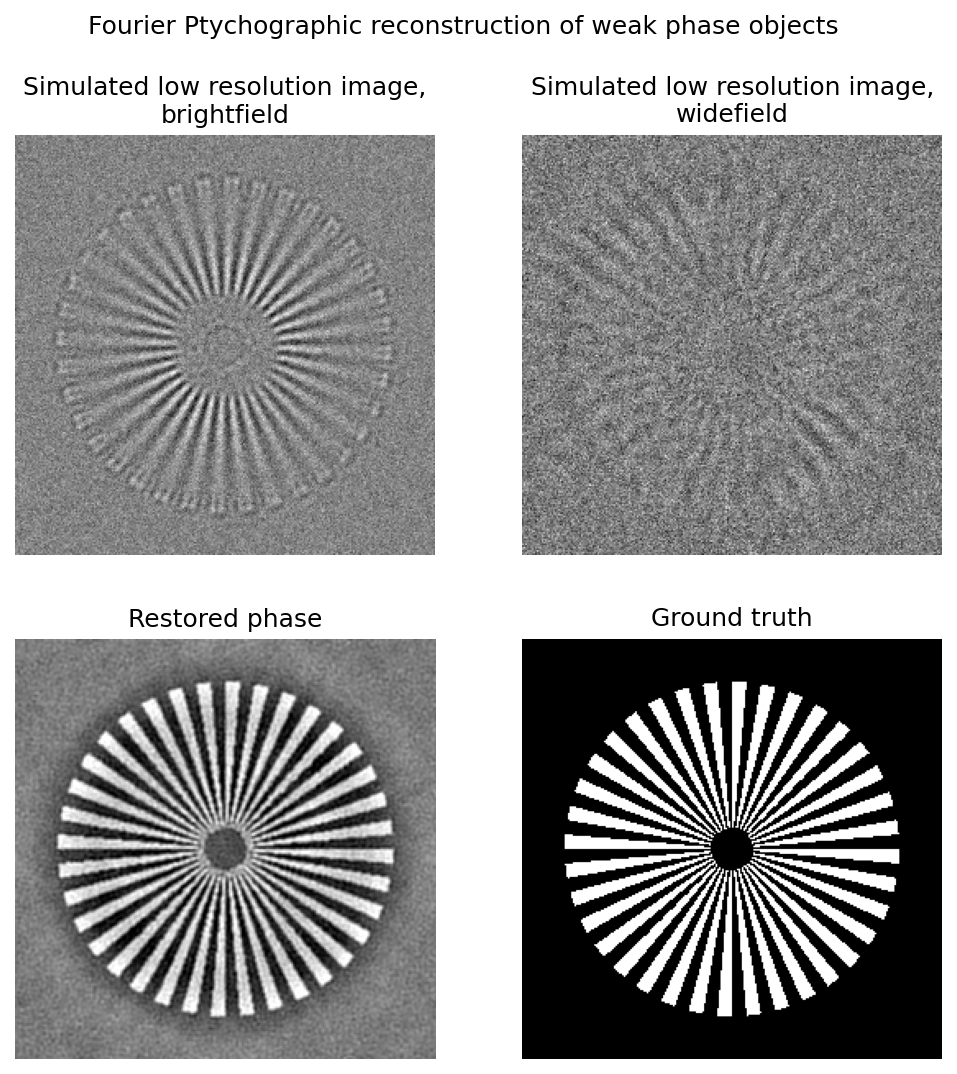
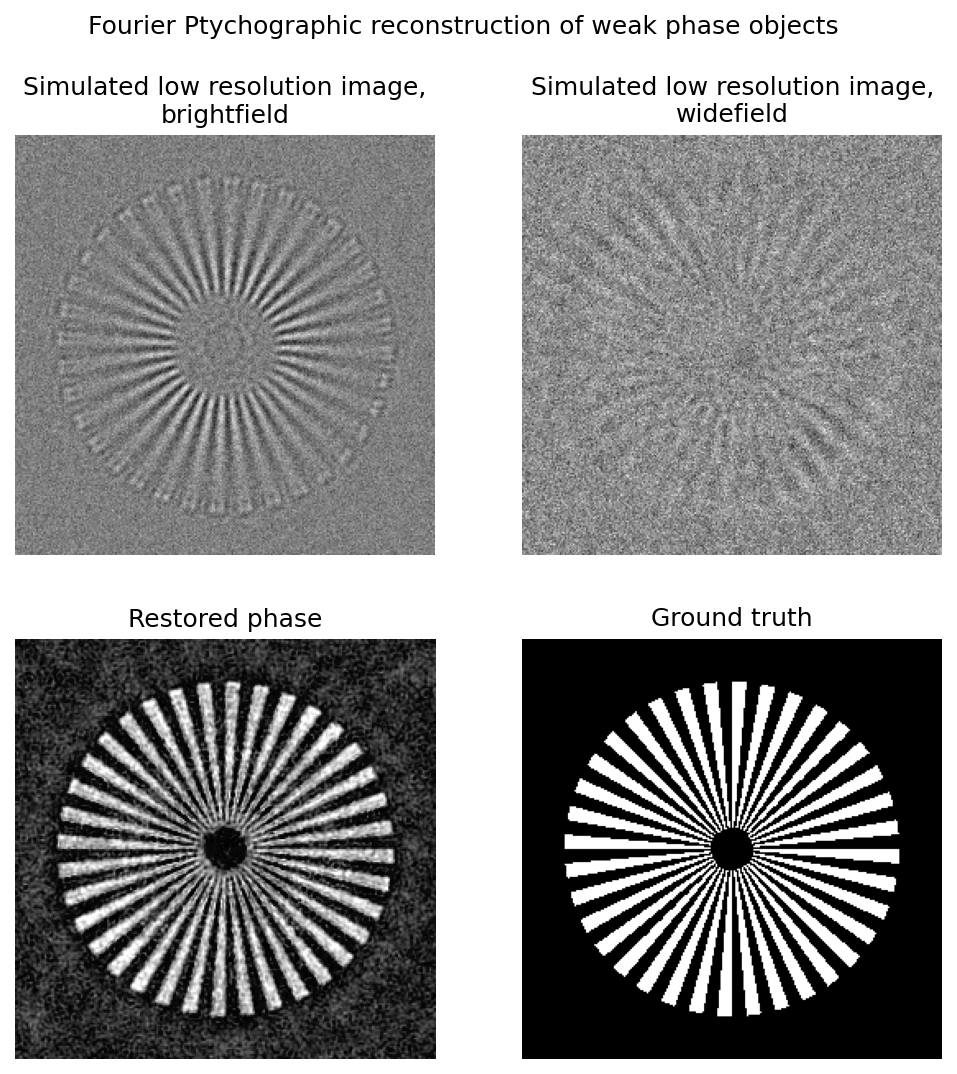
Improve FPM problem formulations

Changed region(s): [[0.0, 0.5838, 0.4545, 1.0], [0.5455, 0.1229, 1.0, 0.5223], [0.0303, 0.1229, 0.4545, 0.5223]]

diff --git a/searchindex.js b/searchindex.js
@@ -1,1 +1,1 @@
-Search.setIndex({"alltitles":{"Advanced examples":[[4,"advanced-examples"]],"Basic examples":[[4,"basic-examples"]],"Comparison with the previous architecture":[[10,"comparison-with-the-previous-architecture"]],"Dependencies":[[12,"dependencies"]],"Examples":[[4,null]],"Experimental ProxImaL intermediate representation":[[10,null]],"Horn-Schunck optical flow algorithm":[[4,"horn-schunck-optical-flow-algorithm"],[6,null]],"Image deconvolution with spatial varying point spread functions (SV-PSFs)":[[2,null],[4,"image-deconvolution-with-spatial-varying-point-spread-functions-sv-psfs"]],"Install Guide":[[12,null]],"Install from source":[[12,"install-from-source"]],"Joint image super-resolution and phase retrieval with Fourier Ptychographic microscopy (FPM)":[[3,null],[4,"joint-image-super-resolution-and-phase-retrieval-with-fourier-ptychographic-microscopy-fpm"]],"Linear Operators":[[14,"linear-operators"]],"Overview":[[0,"overview"]],"Pixel super-resolution of oil emulsion droplets under high-speed camera":[[4,"pixel-super-resolution-of-oil-emulsion-droplets-under-high-speed-camera"],[7,null]],"Planned development roadmap":[[10,"planned-development-roadmap"]],"ProxImaL-to-Halide code generation templates":[[0,null]],"Proxable Functions":[[14,"proxable-functions"]],"Publications":[[13,null]],"Pulse calling of single-molecule events":[[4,"pulse-calling-of-single-molecule-events"],[5,null]],"Quick start":[[10,"quick-start"]],"Rationale":[[10,"rationale"]],"Real-world applications":[[4,"real-world-applications"]],"Solver Algorithms":[[14,"solver-algorithms"]],"TV-regularized image deconvolution":[[1,null],[4,"tv-regularized-image-deconvolution"]],"Total variation denoising":[[4,"total-variation-denoising"],[9,null]],"Total variation denoising with multiplicative Poisson noise":[[4,"total-variation-denoising-with-multiplicative-poisson-noise"],[8,null]],"Tutorial":[[14,null]],"Unit testing":[[12,"unit-testing"]],"Visualization of the ProxImal-IR":[[10,"visualization-of-the-proximal-ir"]],"Welcome to ProxImaL":[[11,null]],"Working principle":[[0,"working-principle"]]},"docnames":["codegen","examples/deconv","examples/deconv-sv-psf","examples/fourier-ptychography","examples/index","examples/molecular-pulse-calling","examples/optical-flow","examples/pixel-sr","examples/poisson","examples/tv_denoise","experimental_features","index","install","publications","tutorial/index"],"envversion":{"sphinx":65,"sphinx.domains.c":3,"sphinx.domains.changeset":1,"sphinx.domains.citation":1,"sphinx.domains.cpp":9,"sphinx.domains.index":1,"sphinx.domains.javascript":3,"sphinx.domains.math":2,"sphinx.domains.python":4,"sphinx.domains.rst":2,"sphinx.domains.std":2,"sphinx.ext.viewcode":1},"filenames":["codegen.rst","examples/deconv.rst","examples/deconv-sv-psf.rst","examples/fourier-ptychography.rst","examples/index.rst","examples/molecular-pulse-calling.rst","examples/optical-flow.rst","examples/pixel-sr.rst","examples/poisson.rst","examples/tv_denoise.rst","experimental_features.rst","index.rst","install.rst","publications.rst","tutorial/index.rst"],"indexentries":{},"objects":{},"objnames":{},"objtypes":{},"terms":{"":[3,4,7,11,12,13],"0":[2,3,4,5,7,9,12],"000":[4,5],"005":[4,7],"015":[2,4],"019":[3,4],"02":12,"023035":[3,4],"07":[3,4],"0817":[2,4],"0e":10,"1":[2,3,4,7,9,10,11,12,14],"10":[0,2,3,4,5,7,11],"100":12,"1000":[4,7],"1007":[2,4],"1038":[3,4,7],"1088":[3,4],"11":10,"1109":[4,7],"11114":[3,4],"1126":[4,5],"1142":0,"115":[2,4],"12":0,"128":[4,5],"13":[4,7],"131":11,"132":11,"133":11,"1364":[3,4],"1367":[3,4],"137":12,"14":12,"15":[11,12],"16":[4,5],"17":[0,12],"18":12,"186":[4,5],"192":[4,5],"1e3":[3,4],"2":[1,2,3,4,5,6,7,8,9],"20":[4,5],"2003":0,"2015":[2,4],"2016":13,"2017":[4,7],"2019":[3,4,7],"2020":[3,4],"2022":[4,5],"2023":[4,5],"22":[3,4],"231":0,"253":[2,4],"255":[4,5,9,11],"26":12,"260":0,"2630":[3,4],"278":[2,4],"2914946":[4,7],"2d":[0,14],"3":[0,4,7,10,12],"30":[4,5],"378":[4,5],"39":12,"3d":0,"3x3":14,"4":[4,5,7],"40":12,"43":12,"44608":[4,7],"47146":[3,4],"5":[4,7,10],"52":12,"5e":[4,7],"61":12,"64":0,"6789017":[4,5],"7":[4,7],"72":12,"78":12,"781":[4,7],"792":[4,7],"8":11,"800":[4,7],"9":[3,4,12],"93":12,"96":[3,4],"A":[0,3,4,7,14],"For":11,"In":14,"It":[0,10,11],"On":0,"The":[0,4,5,7,10,11,13,14],"These":4,"To":[10,12],"Will":10,"_":[4,7,8],"_1":[1,4,5,8,9],"_2":[1,4,5,6,9],"a8d14f22c9ce1cc59c9f480df5deb0f7e94861f4":[4,7],"aarch64":0,"ab704":[3,4],"abo7651":[4,5],"about":11,"abov":11,"absorb":10,"absorpt":10,"absort":0,"academ":10,"academictorr":[3,4,7],"acceler":[0,12],"accompani":11,"acm":13,"across":[10,14],"action":12,"activ":12,"actor":0,"adapt":0,"add":10,"addition":12,"address":10,"admin":12,"admm":[0,14],"adopt":10,"advanc":10,"after":[0,10,12],"again":0,"aid":10,"aim":4,"aka":[4,7],"al":[2,4,5],"albeit":10,"algorithm":[0,7,10,13],"all":[4,7,10,14],"allow":[10,11],"along":14,"alpha":[2,4,6],"altern":[3,4,14],"amd":0,"an":[4,5,11],"api":10,"appli":[3,4,10],"applic":0,"approach":[4,5,7],"approxim":[2,4],"ar":[0,10,14],"architectur":[0,4,5,7],"arg":[3,4,14],"arg1":14,"arg2":14,"argument":14,"arithmet":[4,5,7],"arm":0,"arrai":14,"art":[11,13],"articl":[4,7],"artifact":[4,5,7],"ascent":11,"aug":[4,7],"autom":12,"automat":[10,11],"avail":[10,14],"axi":14,"b":[1,2,4,5,7,8,9,10,11,14],"b_j":[3,4],"backend":[0,10],"background":[4,7],"baremet":[4,7,10],"base":[4,5,7,10,14],"basic_denois":[4,9],"batch":[4,5,7],"bayer":[0,4],"becom":10,"befor":10,"behavior":10,"behind":13,"below":14,"benchmark":10,"better":[4,5,7,11],"between":10,"bin":12,"biolog":4,"biom":[4,7],"black":10,"blob":[1,2,3,4,5,6,7,8,9],"blockwis":14,"blur":[2,4],"bogaraju":[4,7],"bottom":0,"bound":14,"boundari":[4,5,7],"box":[10,14],"brian":[4,5],"build":[0,10],"built":10,"c":[0,3,4,7,14],"c95c06e98a74a580ccbcceafdc1188ea144021c8":[3,4],"calibr":[3,4],"camera":3,"can":[0,10,11,13],"canon":10,"captur":[4,7],"carefulli":10,"case":12,"cast":14,"cd":12,"cell":4,"central":10,"chambol":[0,14],"chan":[3,4,7],"chang":10,"channel":[4,7,10],"choos":10,"circuit":[0,4,7],"clearer":10,"clone":12,"cmo":4,"code":[1,2,3,4,5,6,7,8,9,10,11],"codegen":10,"collect":12,"color":14,"com":[1,2,3,4,5,6,7,8,9],"common":[4,10],"comp":[1,2,3,4,5,6,7,8,9],"compar":[3,4],"compil":[0,10,12],"complex":[3,4],"compon":[0,10],"compos":[0,10],"comput":[0,2,4,13,14],"config":0,"consist":10,"consolid":10,"const_buff":10,"constant":14,"constraint":14,"construct":11,"consum":0,"contain":[0,4],"conv":[1,2,4,8,10,14],"convex":[4,5,7],"convolv":14,"coprim":[4,7],"core":0,"correspond":10,"cosi":[3,4],"cover":14,"cpu":0,"creat":[12,14],"ctu4c":[3,4],"cultur":4,"current":10,"custom":10,"cv2":12,"cvxpy":12,"d":[3,4,5],"dag":10,"data":[3,4,5,7,11],"dataclass":10,"dataset":11,"de":4,"debug":14,"deconvolut":[0,10],"deep":10,"def":[3,4],"default":14,"defin":[0,10],"definit":0,"demoas":0,"demoasick":0,"demonstr":[4,7],"deni":[2,4],"denois":[11,14],"deploy":10,"deriv":[3,4],"describ":10,"design":[0,4,5,10,11],"desir":14,"detail":[3,4,7,11],"determin":11,"devic":[4,5,10],"diag":[2,4,6],"diagon":10,"diamond":[11,13],"diff_fn":14,"differ":[4,10,11],"differenti":14,"digest":[3,4],"digit":[4,7],"dim":[1,4,8,10,14],"dimens":14,"dimension":[4,7],"direct":[3,4,14],"directli":10,"directori":12,"discuss":[11,13],"distort":[1,2,3,4,5,6,7,8,9,10],"distribut":10,"doi":[0,2,3,4,5,7],"domain":10,"driven":0,"dsl":10,"dtype":10,"dx":[3,4,7],"dynam":[4,5],"e":[0,2,4,7,10,12],"e1":14,"e2":14,"each":10,"easi":[10,11],"easiest":12,"edward":0,"effici":[3,4,11,13],"ei":[4,7],"element":14,"embed":[0,10,11],"end":10,"env":0,"environ":[0,12],"eps_ab":14,"eps_rel":14,"equat":10,"equival":[4,7],"especi":10,"et":[2,4,5],"evalu":14,"everi":14,"exampl":[1,2,3,5,6,7,8,9,10,11],"exclus":10,"execut":[4,5,7,10],"expect":[0,1,2,4,5,6,7,8,9,12],"experi":11,"expert":4,"explicit":10,"export":0,"expos":0,"express":[10,11,14],"extend":10,"extern":10,"extract":[4,7,14],"ey":[3,4],"f":[0,2,3,4,10,13],"f_t":[4,6],"f_x":[4,6],"f_y":[4,6],"famili":0,"fast":[2,4,7],"featur":10,"felix":11,"figsiz":11,"figur":[0,11],"file":10,"filter":4,"first":12,"fix":[4,5,7,14],"float":[4,5,7],"float32":10,"folder":0,"follow":[0,4,7,10,11,12,13],"form":10,"formul":[0,3,4,5,7,10],"foundat":10,"fpga":[4,5,7],"fprime":14,"framework":12,"free":4,"from":[0,4,5,10,11],"frontend":[0,10],"ft":[4,6],"full":11,"fulli":12,"func":14,"function":[0,10],"futur":10,"fx":[4,6],"fy":[4,6],"g":[0,10,13],"gener":[4,7,10,11,14],"get_templ":0,"giga":[4,7],"git":12,"github":[1,2,3,4,5,6,7,8,9],"given":14,"global":[3,4],"gpu":[0,4,5,7],"grad":[1,2,4,5,6,7,8,9,10,11,14],"grad_term":[2,4],"gradient":[11,14],"grai":11,"graph":10,"ground":[3,4],"group":[3,4,10],"group_dim":[2,4,7],"group_norm":10,"group_norm1":[1,2,4,7,8,14],"h":[0,3,4,7,14],"h_i":[2,4],"ha":12,"hale":[3,4],"half":[4,5,7,14],"halid":[10,12],"hand":0,"hanfei":[3,4],"hardwar":[0,4,5,7,10],"hash":10,"hat":[3,4],"have":[4,5,7],"heid":[11,13],"heidrich":13,"here":[4,5,7],"high":3,"hk":[4,7],"homographi":14,"hourglass":0,"how":[4,10,11,13],"hq":14,"http":[0,1,2,3,4,5,6,7,8,9],"huang":[3,4],"hybrid":10,"i":[0,2,3,4,5,7,10,11,12,14],"idea":13,"ieee":[4,7],"illumin":[3,4,7],"illustr":0,"imag":[0,5,6,7,8,9,10,11,13,14],"implement":[4,5,7,10,11],"import":[0,11],"imshow":11,"includ":10,"inform":14,"inher":[4,5,7],"initi":14,"input":[0,10,14],"inspect":10,"instead":[4,5,7],"instrument":[3,4],"int":[2,4],"integr":[4,5],"intel":0,"interfac":0,"interleav":4,"intern":10,"interpol":14,"interpret":14,"introduc":[4,5,7,10],"invers":0,"invok":0,"item":12,"iter":14,"its":14,"j":[0,2,3,4,13],"j2":0,"jinja2":0,"journal":0,"jsj":[4,7],"juli":[4,5],"k":[0,1,3,4,7,8,10],"kei":14,"kellei":13,"kernel":[10,14],"kim":[3,4],"kk":[4,7],"known":11,"l":[0,2,4],"l1":14,"l2":14,"ladmm":14,"lam":[4,7],"lambda":[1,4,8],"lambda_tv":[1,2,4,8],"languag":[0,10,11],"latex":10,"lee":0,"left":[2,3,4,7],"legaci":10,"len":[3,4],"level":[10,12],"lightweight":10,"like":[4,5,7,10],"likelihood":14,"limit":10,"lin_op":[10,14],"line":[4,7],"linear":[0,4,7,10],"list":14,"llvm":10,"load":0,"loader":0,"logic":10,"long":12,"loos":10,"m":[4,7,13],"mai":[4,5,7,10],"major":10,"make":11,"mani":[4,11],"map":0,"mask":[4,7],"master":[1,2,3,4,5,6,7,8,9],"math":[3,4,10,11],"mathbb":[3,4],"mathbf":[3,4,7],"mathemat":10,"mathrm":[2,3,4],"mathtt":[1,2,4,5,6,8,9],"matplotlib":11,"matrix":14,"max_it":14,"maximum":14,"mean":14,"meant":[4,7],"meet":0,"memori":[3,4],"meter":[4,7],"method":[3,4,5,7,11,14],"michael":0,"microfluid":[4,7],"microscopi":7,"middl":0,"min_":[3,4,6],"min_u":[1,2,4,5,7,8,9],"minim":10,"mirror":10,"misc":11,"mode":10,"model":[0,1,2,3,4,5,6,7,8,9,10,11],"modul":10,"more":[4,11],"mu":[2,4],"much":11,"mul_color":14,"mul_elemwis":[2,4,6,7,14],"multi":[0,10],"multipl":[10,14],"multipli":14,"n":[2,4,10],"n_psf":[2,4],"nabla":[1,2,4,5,6,7,8],"nabla_i":[4,9],"nabla_x":[4,9],"namespac":10,"narrow":0,"natur":11,"navig":12,"necessari":0,"need":[10,12],"neuendorff":0,"new":[3,4,10],"next":12,"ng":[4,7],"niessner":13,"ninja":0,"node":10,"nois":14,"noisi":11,"nojima":[3,4],"non":[4,5,7],"none":14,"nonloc":14,"nonneg":[4,5,9,10,11,14],"norm":[3,4,14],"norm1":[4,5,9,11,14],"note":10,"now":[10,12],"np":[10,11],"number":[10,14],"numexpr":[10,12],"numpi":[10,11,12],"nvidia":0,"nvptx":0,"object":[3,4,10,14],"obliqu":[3,4],"observ":14,"obtain":[11,13],"off":[4,5,7],"omega_fn":0,"omit":[4,7],"one":[4,7],"ones":10,"op":10,"open":0,"opencl":0,"oper":[3,4,10],"opp":14,"oppon":14,"optic":3,"optica":[3,4],"optim":[0,4,5,7,10,11,13],"optimized_problem":10,"oracl":14,"order":10,"org":[0,2,3,4,5,7],"orient":0,"origin":[4,5,7,10,11],"osa":[3,4],"other":[0,11],"out_dim":10,"output":[0,1,2,4,5,6,7,8,9,10],"over":14,"p":[3,4],"packag":0,"packageload":0,"pad":[4,7],"pan":[3,4],"paper":[3,4,11],"parallel":[3,4],"pars":10,"parser":10,"pass":12,"passiv":[4,7],"patch_nlm":14,"path":[10,12],"pc":14,"pcaop":[3,4],"perform":14,"phase":0,"photographi":13,"phy":[3,4],"pillow":12,"pip":12,"pipelin":10,"pixel":14,"platform":0,"plot":11,"plt":11,"pock":[0,14],"point":[5,7],"poisson":[3,10,14],"poisson_norm":[4,8,14],"poisson_phase_norm":[3,4],"pp":0,"precis":[4,5,7,14],"predefin":14,"predict":10,"previous":10,"print":[10,14],"prior":[11,14],"prob":[1,2,4,5,6,7,8,9,11,14],"problem":[0,1,2,3,4,5,6,7,8,9,10,11],"proceed":13,"process":[4,5,7],"processor":[4,5,7],"progress":10,"project":[0,10,12],"protein":[4,5],"provid":[10,11],"prox":10,"prox_fn":10,"proxim":[1,2,3,4,5,6,7,8,9,12,13],"psf_mode":[2,4],"psi_fn":0,"ptychograph":0,"ptychographi":[3,4],"publish":[3,4],"pupil":[3,4],"pure":10,"px":[4,6,10],"py":[1,2,3,4,5,6,7,8,9,10,12],"pycuda":10,"pyplot":11,"pytest":12,"python":[0,10,11,12],"quadrat":14,"r":[4,7],"ragan":13,"randn":11,"random":11,"rang":[0,2,4],"raster":[4,7],"rate":[4,7],"raw":[0,3,4,5,7],"raw_imag":[2,4],"real":[5,7],"reconfigur":[4,5,7],"reconstruct":[4,7,10],"record":[4,5],"recoveri":[4,5],"reed":[4,5],"refer":[2,3,4,5,7],"reflect":[4,5,7],"reformul":11,"reinstal":12,"remot":4,"remov":10,"render":[0,10],"replac":10,"report":[3,4,7,12],"repositori":12,"represent":[1,2,3,4,5,6,7,8,9],"requir":10,"research":0,"resiz":14,"restrict":12,"result":[3,4,11,13],"retriev":[0,5],"rewrit":10,"rho":14,"right":[2,3,4,7],"root":12,"roughli":[4,5,7],"rule":10,"run":12,"rx":12,"s0218126603000751":0,"s11263":[2,4],"s41598":[3,4],"sake":[4,7],"sampl":[4,5,7],"scalar":14,"scale":[0,10,14],"scan":[4,7],"scatter":10,"scienc":[4,5],"scientif":[3,4,7],"scipi":[11,12],"screen":[3,4],"screenshot":10,"second":[4,7],"section":4,"see":11,"seed":11,"semiconductor":[4,5],"sens":4,"sensor":4,"sequenc":[4,5],"set":14,"sever":10,"shape":[4,7,11,14],"shi":[4,7],"shift":[2,3,4],"shift_j":[3,4],"should":10,"show":[4,10,11,13],"siemen":[3,4],"siggraph":13,"signal":[1,2,3,4,5,6,7,8,9,10],"similar":10,"simpl":[10,11],"simplifi":10,"simul":[3,4,10],"simulated_lowr":[3,4],"singl":[7,10,14],"size":0,"skip":12,"so":[4,7],"softwar":0,"solv":[4,11,14],"solver":[0,10],"some":4,"sophist":11,"soulez":[2,4],"space":14,"spars":11,"specif":[0,3,4,10],"specifi":14,"split":[0,10,14],"spread":10,"sqrt":[3,4],"squar":14,"sr":[4,7],"src":0,"srep44608":[4,7],"ss":12,"sssssssssssss":12,"stabil":10,"stabl":10,"stack":[0,14],"stain":4,"star":[3,4],"start":14,"state":[11,13],"statu":10,"step":[10,14],"stephen":0,"steven":11,"stream":[4,5,7],"stretch":[4,7],"structur":10,"subplot":11,"subsampl":14,"subset":[4,5],"substitut":0,"suit":[4,5,7],"sum":[2,4,14],"sum_":[2,3,4],"sum_entri":14,"sum_squar":[1,2,3,4,5,6,7,9,10,11,14],"summar":10,"support":[10,14],"symbol":10,"syntax":10,"syst":[4,7],"system":[0,4,7,10],"t":[3,4],"tabl":10,"taken":14,"target":[3,4,10],"tbca":[4,7],"technic":[3,4],"test_alg":12,"test_cuda_comp_graph":12,"test_cuda_prox_fn":12,"test_deconv":[1,4],"test_deconv_sv_psf":[2,4],"test_halid":12,"test_lin_op":12,"test_optical_flow":[4,6],"test_pixel_sr":[4,7],"test_poisson":[4,8],"test_problem":12,"test_prox_fn":12,"test_proximal_lit":10,"test_pulse_cal":[4,5],"test_transform":12,"textual":[1,2,3,4,5,6,7,8,9],"thi":[4,5,7,10,12,14],"thi\u00e9baut":[2,4],"through":0,"throughput":[3,4],"time":[4,5,7],"titl":11,"toolchain":12,"top":12,"trade":[4,5,7],"tran":[4,7],"transform":[10,14],"transit":10,"translat":0,"treat":10,"truth":[3,4],"tsia":[4,7],"tune":10,"two":0,"typic":10,"u":[1,2,3,4,5,6,7,8,9,10,12],"u_0":[4,7],"ultra":[4,7],"under":10,"unifi":[0,10],"uniformli":10,"unknown":10,"unstabl":10,"up":0,"us":[4,10,11,13,14],"usag":[0,10],"user":[0,10],"util":10,"uv":12,"v":[4,6,7],"valu":[0,3,4,11,14],"variabl":[11,14],"variable_dim":10,"variant":[2,4],"variou":0,"vector":14,"veloc":[4,7],"venv":12,"verbos":[10,14],"veri":10,"vert":[2,3,4,7],"vert_":[3,4],"vert_1":[2,4],"vert_2":[2,3,4,7],"vi":[2,4],"via":[4,7,10,14],"virtual":12,"vol":[0,4,7],"vstack":14,"w":[4,7,13],"w_i":[2,4],"wa":[4,5,11],"wai":[4,11],"waist":0,"wang":[3,4],"warn":12,"warp":[4,7,14],"we":14,"weak":[3,4],"weight":[2,4,14],"well":11,"wetzstein":13,"when":10,"whether":14,"which":10,"wirthlin":0,"wise":14,"without":11,"wong":[4,7],"work":10,"worri":11,"write":[0,10],"written":0,"x":[2,4,11],"x0":14,"x86":0,"xu":[3,4],"y":[3,4,7],"yan":[3,4],"yang":[3,4],"you":[11,12],"your":11,"yuv":14,"z":[3,4],"zenodo":[4,5]},"titles":["ProxImaL-to-Halide code generation templates","TV-regularized image deconvolution","Image deconvolution with spatial varying point spread functions (SV-PSFs)","Joint image super-resolution and phase retrieval with Fourier Ptychographic microscopy (FPM)","Examples","Pulse calling of single-molecule events","Horn-Schunck optical flow algorithm","Pixel super-resolution of oil emulsion droplets under high-speed camera","Total variation denoising with multiplicative Poisson noise","Total variation denoising","Experimental ProxImaL intermediate representation","Welcome to ProxImaL","Install Guide","Publications","Tutorial"],"titleterms":{"advanc":4,"algorithm":[4,6,14],"applic":4,"architectur":10,"basic":4,"call":[4,5],"camera":[4,7],"code":0,"comparison":10,"deconvolut":[1,2,4],"denois":[4,8,9],"depend":12,"develop":10,"droplet":[4,7],"emuls":[4,7],"event":[4,5],"exampl":4,"experiment":10,"flow":[4,6],"fourier":[3,4],"fpm":[3,4],"from":12,"function":[2,4,14],"gener":0,"guid":12,"halid":0,"high":[4,7],"horn":[4,6],"imag":[1,2,3,4],"instal":12,"intermedi":10,"ir":10,"joint":[3,4],"linear":14,"microscopi":[3,4],"molecul":[4,5],"multipl":[4,8],"nois":[4,8],"oil":[4,7],"oper":14,"optic":[4,6],"overview":0,"phase":[3,4],"pixel":[4,7],"plan":10,"point":[2,4],"poisson":[4,8],"previou":10,"principl":0,"proxabl":14,"proxim":[0,10,11],"psf":[2,4],"ptychograph":[3,4],"public":13,"puls":[4,5],"quick":10,"rational":10,"real":4,"regular":[1,4],"represent":10,"resolut":[3,4,7],"retriev":[3,4],"roadmap":10,"schunck":[4,6],"singl":[4,5],"solver":14,"sourc":12,"spatial":[2,4],"speed":[4,7],"spread":[2,4],"start":10,"super":[3,4,7],"sv":[2,4],"templat":0,"test":12,"total":[4,8,9],"tutori":14,"tv":[1,4],"under":[4,7],"unit":12,"vari":[2,4],"variat":[4,8,9],"visual":10,"welcom":11,"work":0,"world":4}})
+Search.setIndex({"alltitles":{"Advanced examples":[[4,"advanced-examples"]],"Basic examples":[[4,"basic-examples"]],"Comparison with the previous architecture":[[10,"comparison-with-the-previous-architecture"]],"Dependencies":[[12,"dependencies"]],"Examples":[[4,null]],"Experimental ProxImaL intermediate representation":[[10,null]],"Horn-Schunck optical flow algorithm":[[4,"horn-schunck-optical-flow-algorithm"],[6,null]],"Image deconvolution with spatial varying point spread functions (SV-PSFs)":[[2,null],[4,"image-deconvolution-with-spatial-varying-point-spread-functions-sv-psfs"]],"Install Guide":[[12,null]],"Install from source":[[12,"install-from-source"]],"Joint image super-resolution and phase retrieval with Fourier Ptychographic microscopy (FPM)":[[3,null],[4,"joint-image-super-resolution-and-phase-retrieval-with-fourier-ptychographic-microscopy-fpm"]],"Linear Operators":[[14,"linear-operators"]],"Overview":[[0,"overview"]],"Pixel super-resolution of oil emulsion droplets under high-speed camera":[[4,"pixel-super-resolution-of-oil-emulsion-droplets-under-high-speed-camera"],[7,null]],"Planned development roadmap":[[10,"planned-development-roadmap"]],"ProxImaL-to-Halide code generation templates":[[0,null]],"Proxable Functions":[[14,"proxable-functions"]],"Publications":[[13,null]],"Pulse calling of single-molecule events":[[4,"pulse-calling-of-single-molecule-events"],[5,null]],"Quick start":[[10,"quick-start"]],"Rationale":[[10,"rationale"]],"Real-world applications":[[4,"real-world-applications"]],"Solver Algorithms":[[14,"solver-algorithms"]],"TV-regularized image deconvolution":[[1,null],[4,"tv-regularized-image-deconvolution"]],"Total variation denoising":[[4,"total-variation-denoising"],[9,null]],"Total variation denoising with multiplicative Poisson noise":[[4,"total-variation-denoising-with-multiplicative-poisson-noise"],[8,null]],"Tutorial":[[14,null]],"Unit testing":[[12,"unit-testing"]],"Visualization of the ProxImal-IR":[[10,"visualization-of-the-proximal-ir"]],"Welcome to ProxImaL":[[11,null]],"Working principle":[[0,"working-principle"]]},"docnames":["codegen","examples/deconv","examples/deconv-sv-psf","examples/fourier-ptychography","examples/index","examples/molecular-pulse-calling","examples/optical-flow","examples/pixel-sr","examples/poisson","examples/tv_denoise","experimental_features","index","install","publications","tutorial/index"],"envversion":{"sphinx":65,"sphinx.domains.c":3,"sphinx.domains.changeset":1,"sphinx.domains.citation":1,"sphinx.domains.cpp":9,"sphinx.domains.index":1,"sphinx.domains.javascript":3,"sphinx.domains.math":2,"sphinx.domains.python":4,"sphinx.domains.rst":2,"sphinx.domains.std":2,"sphinx.ext.viewcode":1},"filenames":["codegen.rst","examples/deconv.rst","examples/deconv-sv-psf.rst","examples/fourier-ptychography.rst","examples/index.rst","examples/molecular-pulse-calling.rst","examples/optical-flow.rst","examples/pixel-sr.rst","examples/poisson.rst","examples/tv_denoise.rst","experimental_features.rst","index.rst","install.rst","publications.rst","tutorial/index.rst"],"indexentries":{},"objects":{},"objnames":{},"objtypes":{},"terms":{"":[3,4,7,11,12,13],"0":[2,3,4,5,7,9,12],"000":[4,5],"005":[4,7],"015":[2,4],"019":[3,4],"02":12,"023035":[3,4],"07":[3,4],"0817":[2,4],"0e":10,"1":[2,3,4,7,9,10,11,12,14],"10":[0,2,3,4,5,7,11],"100":12,"1000":[4,7],"1007":[2,4],"1038":[3,4,7],"1088":[3,4],"11":10,"1109":[4,7],"11114":[3,4],"1126":[4,5],"1142":0,"115":[2,4],"12":0,"128":[4,5],"13":[4,7],"131":11,"132":11,"133":11,"1364":[3,4],"1367":[3,4],"137":12,"14":12,"15":[11,12],"16":[4,5],"17":[0,12],"18":12,"186":[4,5],"192":[4,5],"1e3":[3,4],"2":[1,2,3,4,5,6,7,8,9],"20":[4,5],"2003":0,"2015":[2,4],"2016":13,"2017":[4,7],"2019":[3,4,7],"2020":[3,4],"2022":[4,5],"2023":[4,5],"22":[3,4],"231":0,"253":[2,4],"255":[4,5,9,11],"26":12,"260":0,"2630":[3,4],"278":[2,4],"2914946":[4,7],"2d":[0,14],"3":[0,4,7,10,12],"30":[4,5],"378":[4,5],"39":12,"3d":0,"3x3":14,"4":[4,5,7],"40":12,"43":12,"44608":[4,7],"47146":[3,4],"5":[4,7,10],"52":12,"5e":[4,7],"61":12,"64":0,"6789017":[4,5],"7":[4,7],"72":12,"78":12,"781":[4,7],"792":[4,7],"8":11,"800":[4,7],"9":[3,4,12],"93":12,"96":[3,4],"A":[0,3,4,7,14],"For":11,"In":14,"It":[0,10,11],"On":0,"The":[0,4,5,7,10,11,13,14],"These":4,"To":[10,12],"Will":10,"_":[3,4,7,8],"_1":[1,4,5,8,9],"_2":[1,4,5,6,9],"a8d14f22c9ce1cc59c9f480df5deb0f7e94861f4":[4,7],"aarch64":0,"ab704":[3,4],"abo7651":[4,5],"about":11,"abov":11,"absorb":10,"absorpt":10,"absort":0,"academ":10,"academictorr":[3,4,7],"acceler":[0,12],"accompani":11,"acm":13,"across":[10,14],"action":12,"activ":12,"actor":0,"adapt":0,"add":10,"addition":12,"address":10,"admin":12,"admm":[0,14],"adopt":10,"advanc":10,"after":[0,10,12],"again":0,"aid":10,"aim":4,"aka":[4,7],"al":[2,4,5],"albeit":10,"algorithm":[0,7,10,13],"all":[4,7,10,14],"allow":[10,11],"along":14,"alpha":[2,4,6],"altern":[3,4,14],"amd":0,"an":[4,5,11],"api":10,"appli":[3,4,10],"applic":0,"approach":[4,5,7],"approxim":[2,4],"ar":[0,10,14],"architectur":[0,4,5,7],"arg":[3,4,14],"arg1":14,"arg2":14,"argument":14,"arithmet":[4,5,7],"arm":0,"arrai":14,"art":[11,13],"articl":[4,7],"artifact":[4,5,7],"ascent":11,"aug":[4,7],"autom":12,"automat":[10,11],"avail":[10,14],"axi":14,"b":[1,2,4,5,7,8,9,10,11,14],"b_j":[3,4],"backend":[0,10],"background":[4,7],"baremet":[4,7,10],"base":[4,5,7,10,14],"basic_denois":[4,9],"batch":[4,5,7],"bayer":[0,3,4],"bayer_mask_green_channel":[3,4],"becom":10,"befor":10,"behavior":10,"behind":13,"below":14,"benchmark":10,"better":[4,5,7,11],"between":10,"bin":12,"biolog":4,"biom":[4,7],"black":10,"blob":[1,2,3,4,5,6,7,8,9],"blockwis":14,"blur":[2,4],"bogaraju":[4,7],"bottom":0,"bound":14,"boundari":[4,5,7],"box":[10,14],"brian":[4,5],"build":[0,10],"built":10,"c":[0,3,4,7,14],"c95c06e98a74a580ccbcceafdc1188ea144021c8":[3,4],"calibr":[3,4],"camera":3,"can":[0,10,11,13],"canon":10,"captur":[4,7],"carefulli":10,"case":12,"cast":14,"cd":12,"cell":4,"central":10,"chambol":[0,14],"chan":[3,4,7],"chang":10,"channel":[4,7,10],"choos":10,"circuit":[0,4,7],"clearer":10,"clone":12,"cmo":4,"code":[1,2,3,4,5,6,7,8,9,10,11],"codegen":10,"collect":12,"color":14,"com":[1,2,3,4,5,6,7,8,9],"common":[4,10],"comp":[1,2,3,4,5,6,7,8,9],"compar":[3,4],"compil":[0,10,12],"complex":[3,4],"compon":[0,10],"compos":[0,10],"comput":[0,2,4,13,14],"config":0,"consist":10,"consolid":10,"const_buff":10,"constant":14,"constraint":14,"construct":11,"consum":0,"contain":[0,4],"conv":[1,2,4,8,10,14],"convex":[4,5,7],"convolv":14,"coprim":[4,7],"core":0,"correspond":10,"cosi":[3,4],"cover":14,"cpu":0,"creat":[12,14],"ctu4c":[3,4],"cultur":4,"current":10,"custom":10,"cv2":12,"cvxpy":12,"d":[3,4,5],"dag":10,"data":[3,4,5,7,11],"dataclass":10,"dataset":11,"de":4,"debug":14,"deconvolut":[0,10],"deep":10,"def":[3,4],"default":14,"defin":[0,10],"definit":0,"demoas":0,"demoasick":0,"demonstr":[4,7],"deni":[2,4],"denois":[11,14],"deploy":10,"deriv":[3,4],"describ":10,"design":[0,4,5,10,11],"desir":14,"detail":[3,4,7,11],"determin":11,"devic":[4,5,10],"diag":[2,4,6],"diagon":10,"diamond":[11,13],"diff_fn":14,"differ":[4,10,11],"differenti":14,"digest":[3,4],"digit":[4,7],"dim":[1,4,8,10,14],"dimens":14,"dimension":[4,7],"direct":[3,4,14],"directli":10,"directori":12,"discuss":[11,13],"distort":[1,2,3,4,5,6,7,8,9,10],"distribut":10,"doi":[0,2,3,4,5,7],"domain":10,"driven":0,"dsl":10,"dtype":10,"dx":[3,4,7],"dynam":[4,5],"e":[0,2,4,7,10,12],"e1":14,"e2":14,"each":10,"easi":[10,11],"easiest":12,"edward":0,"effici":[3,4,11,13],"ei":[4,7],"element":14,"embed":[0,10,11],"end":10,"env":0,"environ":[0,12],"eps_ab":14,"eps_rel":14,"equat":10,"equival":[4,7],"especi":10,"et":[2,4,5],"evalu":14,"everi":14,"exampl":[1,2,3,5,6,7,8,9,10,11],"exclus":10,"execut":[4,5,7,10],"expect":[0,1,2,4,5,6,7,8,9,12],"experi":11,"expert":4,"explicit":10,"export":0,"expos":0,"express":[10,11,14],"extend":10,"extern":10,"extract":[4,7,14],"ey":[3,4],"f":[0,2,3,4,10,13],"f_t":[4,6],"f_x":[4,6],"f_y":[4,6],"famili":0,"fast":[2,4,7],"featur":10,"felix":11,"figsiz":11,"figur":[0,11],"file":10,"filter":4,"first":12,"fix":[4,5,7,14],"float":[4,5,7],"float32":10,"folder":0,"follow":[0,4,7,10,11,12,13],"form":10,"formul":[0,3,4,5,7,10],"foundat":10,"fpga":[4,5,7],"fprime":14,"framework":12,"free":4,"from":[0,4,5,10,11],"frontend":[0,10],"ft":[4,6],"full":11,"fulli":12,"func":14,"function":[0,10],"futur":10,"fx":[4,6],"fy":[4,6],"g":[0,3,4,10,13],"gener":[4,7,10,11,14],"get_templ":0,"giga":[4,7],"git":12,"github":[1,2,3,4,5,6,7,8,9],"given":14,"global":[3,4],"gpu":[0,4,5,7],"grad":[1,2,4,5,6,7,8,9,10,11,14],"grad_term":[2,4],"gradient":[11,14],"grai":11,"graph":10,"ground":[3,4],"group":[3,4,10],"group_dim":[2,4,7],"group_norm":10,"group_norm1":[1,2,4,7,8,14],"h":[0,3,4,7,14],"h_i":[2,4],"ha":12,"hale":[3,4],"half":[4,5,7,14],"halid":[10,12],"hand":0,"hanfei":[3,4],"hardwar":[0,4,5,7,10],"hash":10,"hat":[3,4],"have":[4,5,7],"heid":[11,13],"heidrich":13,"here":[4,5,7],"high":3,"hk":[4,7],"homographi":14,"hourglass":0,"how":[4,10,11,13],"hq":14,"http":[0,1,2,3,4,5,6,7,8,9],"huang":[3,4],"hybrid":10,"i":[0,2,3,4,5,7,10,11,12,14],"idea":13,"ieee":[4,7],"illumin":[3,4,7],"illustr":0,"im":[3,4],"imag":[0,5,6,7,8,9,10,11,13,14],"implement":[4,5,7,10,11],"import":[0,11],"imshow":11,"includ":10,"inform":14,"inher":[4,5,7],"initi":14,"input":[0,10,14],"inspect":10,"instead":[4,5,7],"instrument":[3,4],"int":[2,4],"integr":[4,5],"intel":0,"interfac":0,"interleav":4,"intern":10,"interpol":14,"interpret":14,"introduc":[4,5,7,10],"invers":0,"invok":0,"item":12,"iter":14,"its":14,"j":[0,2,3,4,13],"j2":0,"jinja2":0,"journal":0,"jsj":[4,7],"juli":[4,5],"k":[0,1,3,4,7,8,10],"kei":14,"kellei":13,"kernel":[10,14],"kim":[3,4],"kk":[4,7],"known":11,"l":[0,2,4],"l1":14,"l2":14,"ladmm":14,"lam":[4,7],"lambda":[1,4,8],"lambda_tv":[1,2,4,8],"languag":[0,10,11],"latex":10,"lee":0,"left":[2,3,4,7],"legaci":10,"len":[3,4],"level":[10,12],"lightweight":10,"like":[4,5,7,10],"likelihood":14,"limit":10,"lin_op":[10,14],"line":[4,7],"linear":[0,4,7,10],"list":14,"llvm":10,"load":0,"loader":0,"logic":10,"long":12,"loos":10,"m":[3,4,7,13],"mai":[4,5,7,10],"major":10,"make":11,"mani":[4,11],"map":0,"mask":[4,7],"master":[1,2,3,4,5,6,7,8,9],"math":[3,4,10,11],"mathbb":[3,4],"mathbf":[3,4,7],"mathcal":[3,4],"mathemat":10,"mathrm":[2,3,4],"mathtt":[1,2,4,5,6,8,9],"matplotlib":11,"matrix":14,"max_it":14,"maximum":14,"mean":14,"meant":[4,7],"meet":0,"memori":[3,4],"meter":[4,7],"method":[3,4,5,7,11,14],"michael":0,"microfluid":[4,7],"microscopi":7,"middl":0,"min_":[3,4,6],"min_u":[1,2,4,5,7,8,9],"minim":10,"mirror":10,"misc":11,"mode":10,"model":[0,1,2,3,4,5,6,7,8,9,10,11],"modul":10,"more":[4,11],"mu":[2,4],"much":11,"mul_color":14,"mul_elemwis":[2,4,6,7,14],"multi":[0,10],"multipl":[10,14],"multipli":14,"n":[2,4,10],"n_psf":[2,4],"nabla":[1,2,4,5,6,7,8],"nabla_i":[4,9],"nabla_x":[4,9],"namespac":10,"narrow":0,"natur":11,"navig":12,"necessari":0,"need":[10,12],"neuendorff":0,"new":[3,4,10],"next":12,"ng":[4,7],"niessner":13,"ninja":0,"node":10,"nois":14,"noisi":11,"nojima":[3,4],"non":[4,5,7],"none":14,"nonloc":14,"nonneg":[3,4,5,9,10,11,14],"norm":[3,4,14],"norm1":[4,5,9,11,14],"note":10,"now":[10,12],"np":[10,11],"number":[10,14],"numexpr":[10,12],"numpi":[10,11,12],"nvidia":0,"nvptx":0,"object":[3,4,10,14],"obliqu":[3,4],"observ":14,"obtain":[11,13],"off":[4,5,7],"omega_fn":0,"omit":[4,7],"one":[4,7],"ones":10,"op":10,"open":0,"opencl":0,"oper":[3,4,10],"opp":14,"oppon":14,"optic":3,"optica":[3,4],"optim":[0,4,5,7,10,11,13],"optimized_problem":10,"oracl":14,"order":10,"org":[0,2,3,4,5,7],"orient":0,"origin":[4,5,7,10,11],"osa":[3,4],"other":[0,11],"out_dim":10,"output":[0,1,2,4,5,6,7,8,9,10],"over":14,"p":[3,4],"packag":0,"packageload":0,"pad":[4,7],"pan":[3,4],"paper":[3,4,11],"parallel":[3,4],"pars":10,"parser":10,"pass":12,"passiv":[4,7],"patch_nlm":14,"path":[10,12],"pc":14,"pcaop":[3,4],"perform":14,"phase":0,"photographi":13,"phy":[3,4],"pillow":12,"pip":12,"pipelin":10,"pixel":14,"platform":0,"plot":11,"plt":11,"pock":[0,14],"point":[5,7],"poisson":[3,10,14],"poisson_norm":[4,8,14],"poisson_phase_norm":[],"pp":0,"precis":[4,5,7,14],"predefin":14,"predict":10,"previous":10,"print":[10,14],"prior":[11,14],"prob":[1,2,4,5,6,7,8,9,11,14],"problem":[0,1,2,3,4,5,6,7,8,9,10,11],"proceed":13,"process":[4,5,7],"processor":[4,5,7],"progress":10,"project":[0,10,12],"protein":[4,5],"provid":[10,11],"prox":10,"prox_fn":10,"proxim":[1,2,3,4,5,6,7,8,9,12,13],"psf_mode":[2,4],"psi_fn":0,"ptychograph":0,"ptychographi":[3,4],"publish":[3,4],"pupil":[3,4],"pure":10,"px":[4,6,10],"py":[1,2,3,4,5,6,7,8,9,10,12],"pycuda":10,"pyplot":11,"pytest":12,"python":[0,10,11,12],"quadrat":14,"r":[4,7],"ragan":13,"randn":11,"random":11,"rang":[0,2,4],"raster":[4,7],"rate":[4,7],"raw":[0,3,4,5,7],"raw_imag":[2,4],"real":[5,7],"reconfigur":[4,5,7],"reconstruct":[4,7,10],"record":[4,5],"recoveri":[4,5],"reed":[4,5],"refer":[2,3,4,5,7],"reflect":[4,5,7],"reformul":11,"reinstal":12,"remot":4,"remov":10,"render":[0,10],"replac":10,"report":[3,4,7,12],"repositori":12,"represent":[1,2,3,4,5,6,7,8,9],"requir":10,"research":0,"resiz":14,"restrict":12,"result":[3,4,11,13],"retriev":[0,5],"rewrit":10,"rho":14,"right":[2,3,4,7],"root":12,"roughli":[4,5,7],"rule":10,"run":12,"rx":12,"s0218126603000751":0,"s11263":[2,4],"s41598":[3,4],"sake":[4,7],"sampl":[4,5,7],"scalar":14,"scale":[0,10,14],"scan":[4,7],"scatter":10,"scienc":[4,5],"scientif":[3,4,7],"scipi":[11,12],"screen":[3,4],"screenshot":10,"second":[4,7],"section":4,"see":11,"seed":11,"semiconductor":[4,5],"sens":4,"sensor":4,"sequenc":[4,5],"set":14,"sever":10,"shape":[4,7,11,14],"shi":[4,7],"shift":[2,3,4],"shift_j":[3,4],"should":10,"show":[4,10,11,13],"siemen":[3,4],"siggraph":13,"signal":[1,2,3,4,5,6,7,8,9,10],"similar":10,"simpl":[10,11],"simplifi":10,"simul":[3,4,10],"simulated_lowr":[3,4],"singl":[7,10,14],"size":0,"skip":12,"so":[4,7],"softwar":0,"solv":[4,11,14],"solver":[0,10],"some":4,"sophist":11,"soulez":[2,4],"space":14,"spars":11,"specif":[0,3,4,10],"specifi":14,"split":[0,10,14],"spread":10,"sqrt":[3,4],"squar":14,"sr":[4,7],"src":0,"srep44608":[4,7],"ss":12,"sssssssssssss":12,"stabil":10,"stabl":10,"stack":[0,14],"stain":4,"star":[3,4],"start":14,"state":[11,13],"statu":10,"step":[10,14],"stephen":0,"steven":11,"stream":[4,5,7],"stretch":[4,7],"structur":10,"subplot":11,"subsampl":14,"subset":[4,5],"substitut":0,"suit":[4,5,7],"sum":[2,4,14],"sum_":[2,3,4],"sum_entri":14,"sum_squar":[1,2,3,4,5,6,7,9,10,11,14],"summar":10,"support":[10,14],"symbol":10,"syntax":10,"syst":[4,7],"system":[0,4,7,10],"t":[3,4],"tabl":10,"taken":14,"target":[3,4,10],"tbca":[4,7],"technic":[3,4],"test_alg":12,"test_cuda_comp_graph":12,"test_cuda_prox_fn":12,"test_deconv":[1,4],"test_deconv_sv_psf":[2,4],"test_halid":12,"test_lin_op":12,"test_optical_flow":[4,6],"test_pixel_sr":[4,7],"test_poisson":[4,8],"test_problem":12,"test_prox_fn":12,"test_proximal_lit":10,"test_pulse_cal":[4,5],"test_transform":12,"textual":[1,2,3,4,5,6,7,8,9],"thi":[4,5,7,10,12,14],"thi\u00e9baut":[2,4],"through":0,"throughput":[3,4],"time":[4,5,7],"titl":11,"toolchain":12,"top":12,"trade":[4,5,7],"tran":[4,7],"transform":[10,14],"transit":10,"translat":0,"treat":10,"truth":[3,4],"tsia":[4,7],"tune":10,"two":0,"typic":10,"u":[1,2,3,4,5,6,7,8,9,10,12],"u_0":[4,7],"ultra":[4,7],"under":10,"unifi":[0,10],"uniformli":10,"unknown":10,"unstabl":10,"up":0,"us":[4,10,11,13,14],"usag":[0,10],"user":[0,10],"util":10,"uv":12,"v":[4,6,7],"valu":[0,3,4,11,14],"variabl":[11,14],"variable_dim":10,"variant":[2,4],"variou":0,"vector":14,"veloc":[4,7],"venv":12,"verbos":[10,14],"veri":10,"vert":[2,3,4,7],"vert_":[3,4],"vert_1":[2,4],"vert_2":[2,3,4,7],"vi":[2,4],"via":[4,7,10,14],"virtual":12,"vol":[0,4,7],"vstack":14,"w":[4,7,13],"w_i":[2,4],"wa":[4,5,11],"wai":[4,11],"waist":0,"wang":[3,4],"warn":12,"warp":[4,7,14],"we":14,"weak":[3,4],"weight":[2,4,14],"weighted_poisson_phase_norm":[3,4],"well":11,"wetzstein":13,"when":10,"whether":14,"which":10,"wirthlin":0,"wise":14,"without":11,"wong":[4,7],"work":10,"worri":11,"write":[0,10],"written":0,"x":[2,4,11],"x0":14,"x86":0,"xu":[3,4],"y":[3,4,7],"yan":[3,4],"yang":[3,4],"you":[11,12],"your":11,"yuv":14,"z":[3,4],"zenodo":[4,5]},"titles":["ProxImaL-to-Halide code generation templates","TV-regularized image deconvolution","Image deconvolution with spatial varying point spread functions (SV-PSFs)","Joint image super-resolution and phase retrieval with Fourier Ptychographic microscopy (FPM)","Examples","Pulse calling of single-molecule events","Horn-Schunck optical flow algorithm","Pixel super-resolution of oil emulsion droplets under high-speed camera","Total variation denoising with multiplicative Poisson noise","Total variation denoising","Experimental ProxImaL intermediate representation","Welcome to ProxImaL","Install Guide","Publications","Tutorial"],"titleterms":{"advanc":4,"algorithm":[4,6,14],"applic":4,"architectur":10,"basic":4,"call":[4,5],"camera":[4,7],"code":0,"comparison":10,"deconvolut":[1,2,4],"denois":[4,8,9],"depend":12,"develop":10,"droplet":[4,7],"emuls":[4,7],"event":[4,5],"exampl":4,"experiment":10,"flow":[4,6],"fourier":[3,4],"fpm":[3,4],"from":12,"function":[2,4,14],"gener":0,"guid":12,"halid":0,"high":[4,7],"horn":[4,6],"imag":[1,2,3,4],"instal":12,"intermedi":10,"ir":10,"joint":[3,4],"linear":14,"microscopi":[3,4],"molecul":[4,5],"multipl":[4,8],"nois":[4,8],"oil":[4,7],"oper":14,"optic":[4,6],"overview":0,"phase":[3,4],"pixel":[4,7],"plan":10,"point":[2,4],"poisson":[4,8],"previou":10,"principl":0,"proxabl":14,"proxim":[0,10,11],"psf":[2,4],"ptychograph":[3,4],"public":13,"puls":[4,5],"quick":10,"rational":10,"real":4,"regular":[1,4],"represent":10,"resolut":[3,4,7],"retriev":[3,4],"roadmap":10,"schunck":[4,6],"singl":[4,5],"solver":14,"sourc":12,"spatial":[2,4],"speed":[4,7],"spread":[2,4],"start":10,"super":[3,4,7],"sv":[2,4],"templat":0,"test":12,"total":[4,8,9],"tutori":14,"tv":[1,4],"under":[4,7],"unit":12,"vari":[2,4],"variat":[4,8,9],"visual":10,"welcom":11,"work":0,"world":4}})

diff --git a/examples/fourier-ptychography.html b/examples/fourier-ptychography.html
@@ -279,15 +279,22 @@ Eyes)” Scientific Reports 9, 11114 (2019).
 \[\def\Fourier{\mathbf{F}}
 \def\Pupil{\mathbf{P}}
 \def\Shift{\mathbf{S}}
+\def\Bayer{\mathbf{M}_\mathrm{Bayer,G}}
+\def\Nonneg{\mathcal{I}_+}
 \hat u = \arg \min_{u \in \mathbb{C}}
 \sum_{j=1}^K \left\Vert
-| \Fourier^T \Pupil \Shift_j \Fourier u |^2 ,
+\Bayer | \Fourier^T \Pupil \Shift_j \Fourier u |^2 ,
 b_j \right\Vert_\mathrm{Poisson} +
-0.07 \Vert u - (1 + 0\mathrm{j}) \Vert_2^2.\]</div>
+0.07 \Vert u - (1 + 0\mathrm{j}) \Vert_2^2 +
+\Nonneg [ \mathrm{Im}(u) ].\]</div>
 </div>
 <p>Textual representation in ProxImaL:</p>
 <div class="highlight-python notranslate"><div class="highlight"><pre><span></span><span class="n">problem</span> <span class="o">=</span> <span class="n">Problem</span><span class="p">(</span>
-    <span class="n">poisson_phase_norm</span><span class="p">(</span><span class="n">ptychography</span><span class="p">(</span><span class="n">u</span><span class="p">)</span> <span class="o">*</span> <span class="n">sqrt</span><span class="p">(</span><span class="mf">1e3</span><span class="p">),</span> <span class="n">simulated_lowres</span> <span class="o">*</span> <span class="mf">1e3</span><span class="p">)</span> <span class="o">+</span>
+    <span class="n">weighted_poisson_phase_norm</span><span class="p">(</span>
+        <span class="n">bayer_mask_green_channel</span><span class="p">,</span>
+        <span class="n">ptychography</span><span class="p">(</span><span class="n">u</span><span class="p">)</span> <span class="o">*</span> <span class="n">sqrt</span><span class="p">(</span><span class="mf">1e3</span><span class="p">),</span>
+        <span class="n">simulated_lowres</span> <span class="o">*</span> <span class="mf">1e3</span><span class="p">,</span>
+    <span class="p">)</span> <span class="o">+</span>
     <span class="n">sum_squares</span><span class="p">(</span><span class="n">u</span> <span class="o">-</span> <span class="mf">1.0</span><span class="p">)</span> <span class="o">*</span> <span class="mf">0.07</span><span class="p">,</span>
 <span class="p">)</span>
 </pre></div>

diff --git a/examples/index.html b/examples/index.html
@@ -407,15 +407,22 @@ Eyes)” Scientific Reports 9, 11114 (2019).
 \[\def\Fourier{\mathbf{F}}
 \def\Pupil{\mathbf{P}}
 \def\Shift{\mathbf{S}}
+\def\Bayer{\mathbf{M}_\mathrm{Bayer,G}}
+\def\Nonneg{\mathcal{I}_+}
 \hat u = \arg \min_{u \in \mathbb{C}}
 \sum_{j=1}^K \left\Vert
-| \Fourier^T \Pupil \Shift_j \Fourier u |^2 ,
+\Bayer | \Fourier^T \Pupil \Shift_j \Fourier u |^2 ,
 b_j \right\Vert_\mathrm{Poisson} +
-0.07 \Vert u - (1 + 0\mathrm{j}) \Vert_2^2.\]</div>
+0.07 \Vert u - (1 + 0\mathrm{j}) \Vert_2^2 +
+\Nonneg [ \mathrm{Im}(u) ].\]</div>
 </div>
 <p>Textual representation in ProxImaL:</p>
 <div class="highlight-python notranslate"><div class="highlight"><pre><span></span><span class="n">problem</span> <span class="o">=</span> <span class="n">Problem</span><span class="p">(</span>
-    <span class="n">poisson_phase_norm</span><span class="p">(</span><span class="n">ptychography</span><span class="p">(</span><span class="n">u</span><span class="p">)</span> <span class="o">*</span> <span class="n">sqrt</span><span class="p">(</span><span class="mf">1e3</span><span class="p">),</span> <span class="n">simulated_lowres</span> <span class="o">*</span> <span class="mf">1e3</span><span class="p">)</span> <span class="o">+</span>
+    <span class="n">weighted_poisson_phase_norm</span><span class="p">(</span>
+        <span class="n">bayer_mask_green_channel</span><span class="p">,</span>
+        <span class="n">ptychography</span><span class="p">(</span><span class="n">u</span><span class="p">)</span> <span class="o">*</span> <span class="n">sqrt</span><span class="p">(</span><span class="mf">1e3</span><span class="p">),</span>
+        <span class="n">simulated_lowres</span> <span class="o">*</span> <span class="mf">1e3</span><span class="p">,</span>
+    <span class="p">)</span> <span class="o">+</span>
     <span class="n">sum_squares</span><span class="p">(</span><span class="n">u</span> <span class="o">-</span> <span class="mf">1.0</span><span class="p">)</span> <span class="o">*</span> <span class="mf">0.07</span><span class="p">,</span>
 <span class="p">)</span>
 </pre></div>
